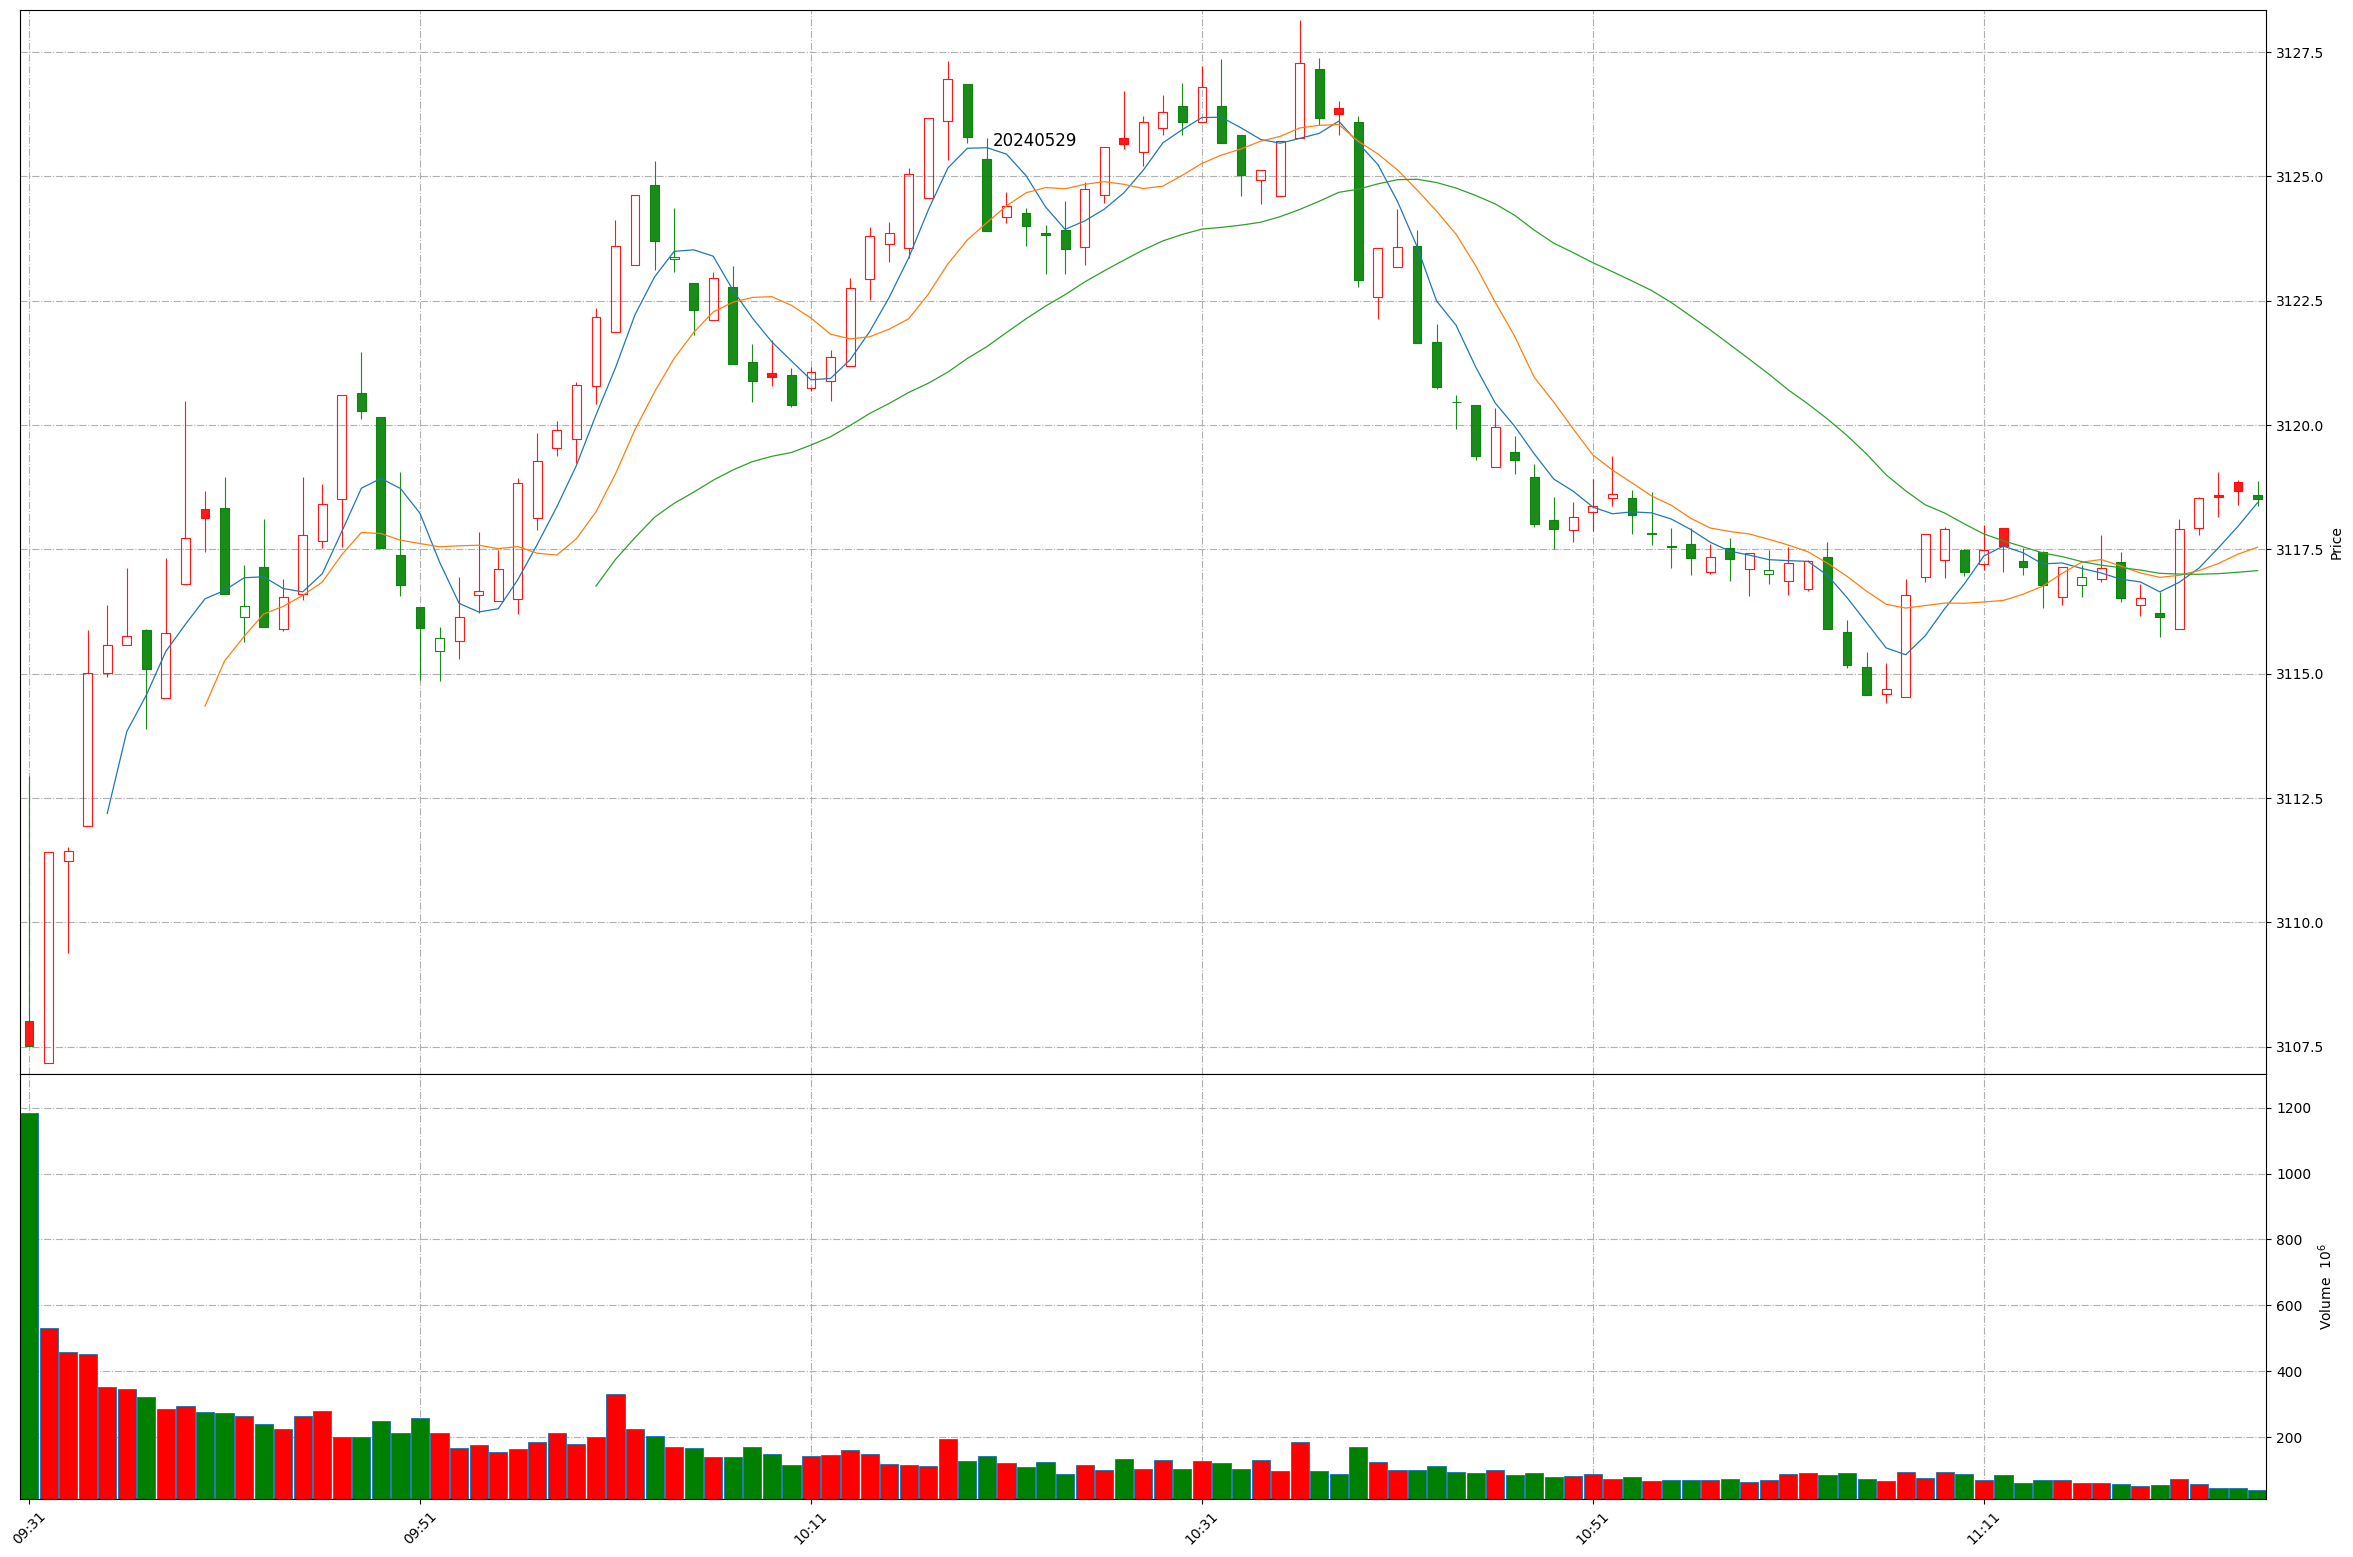
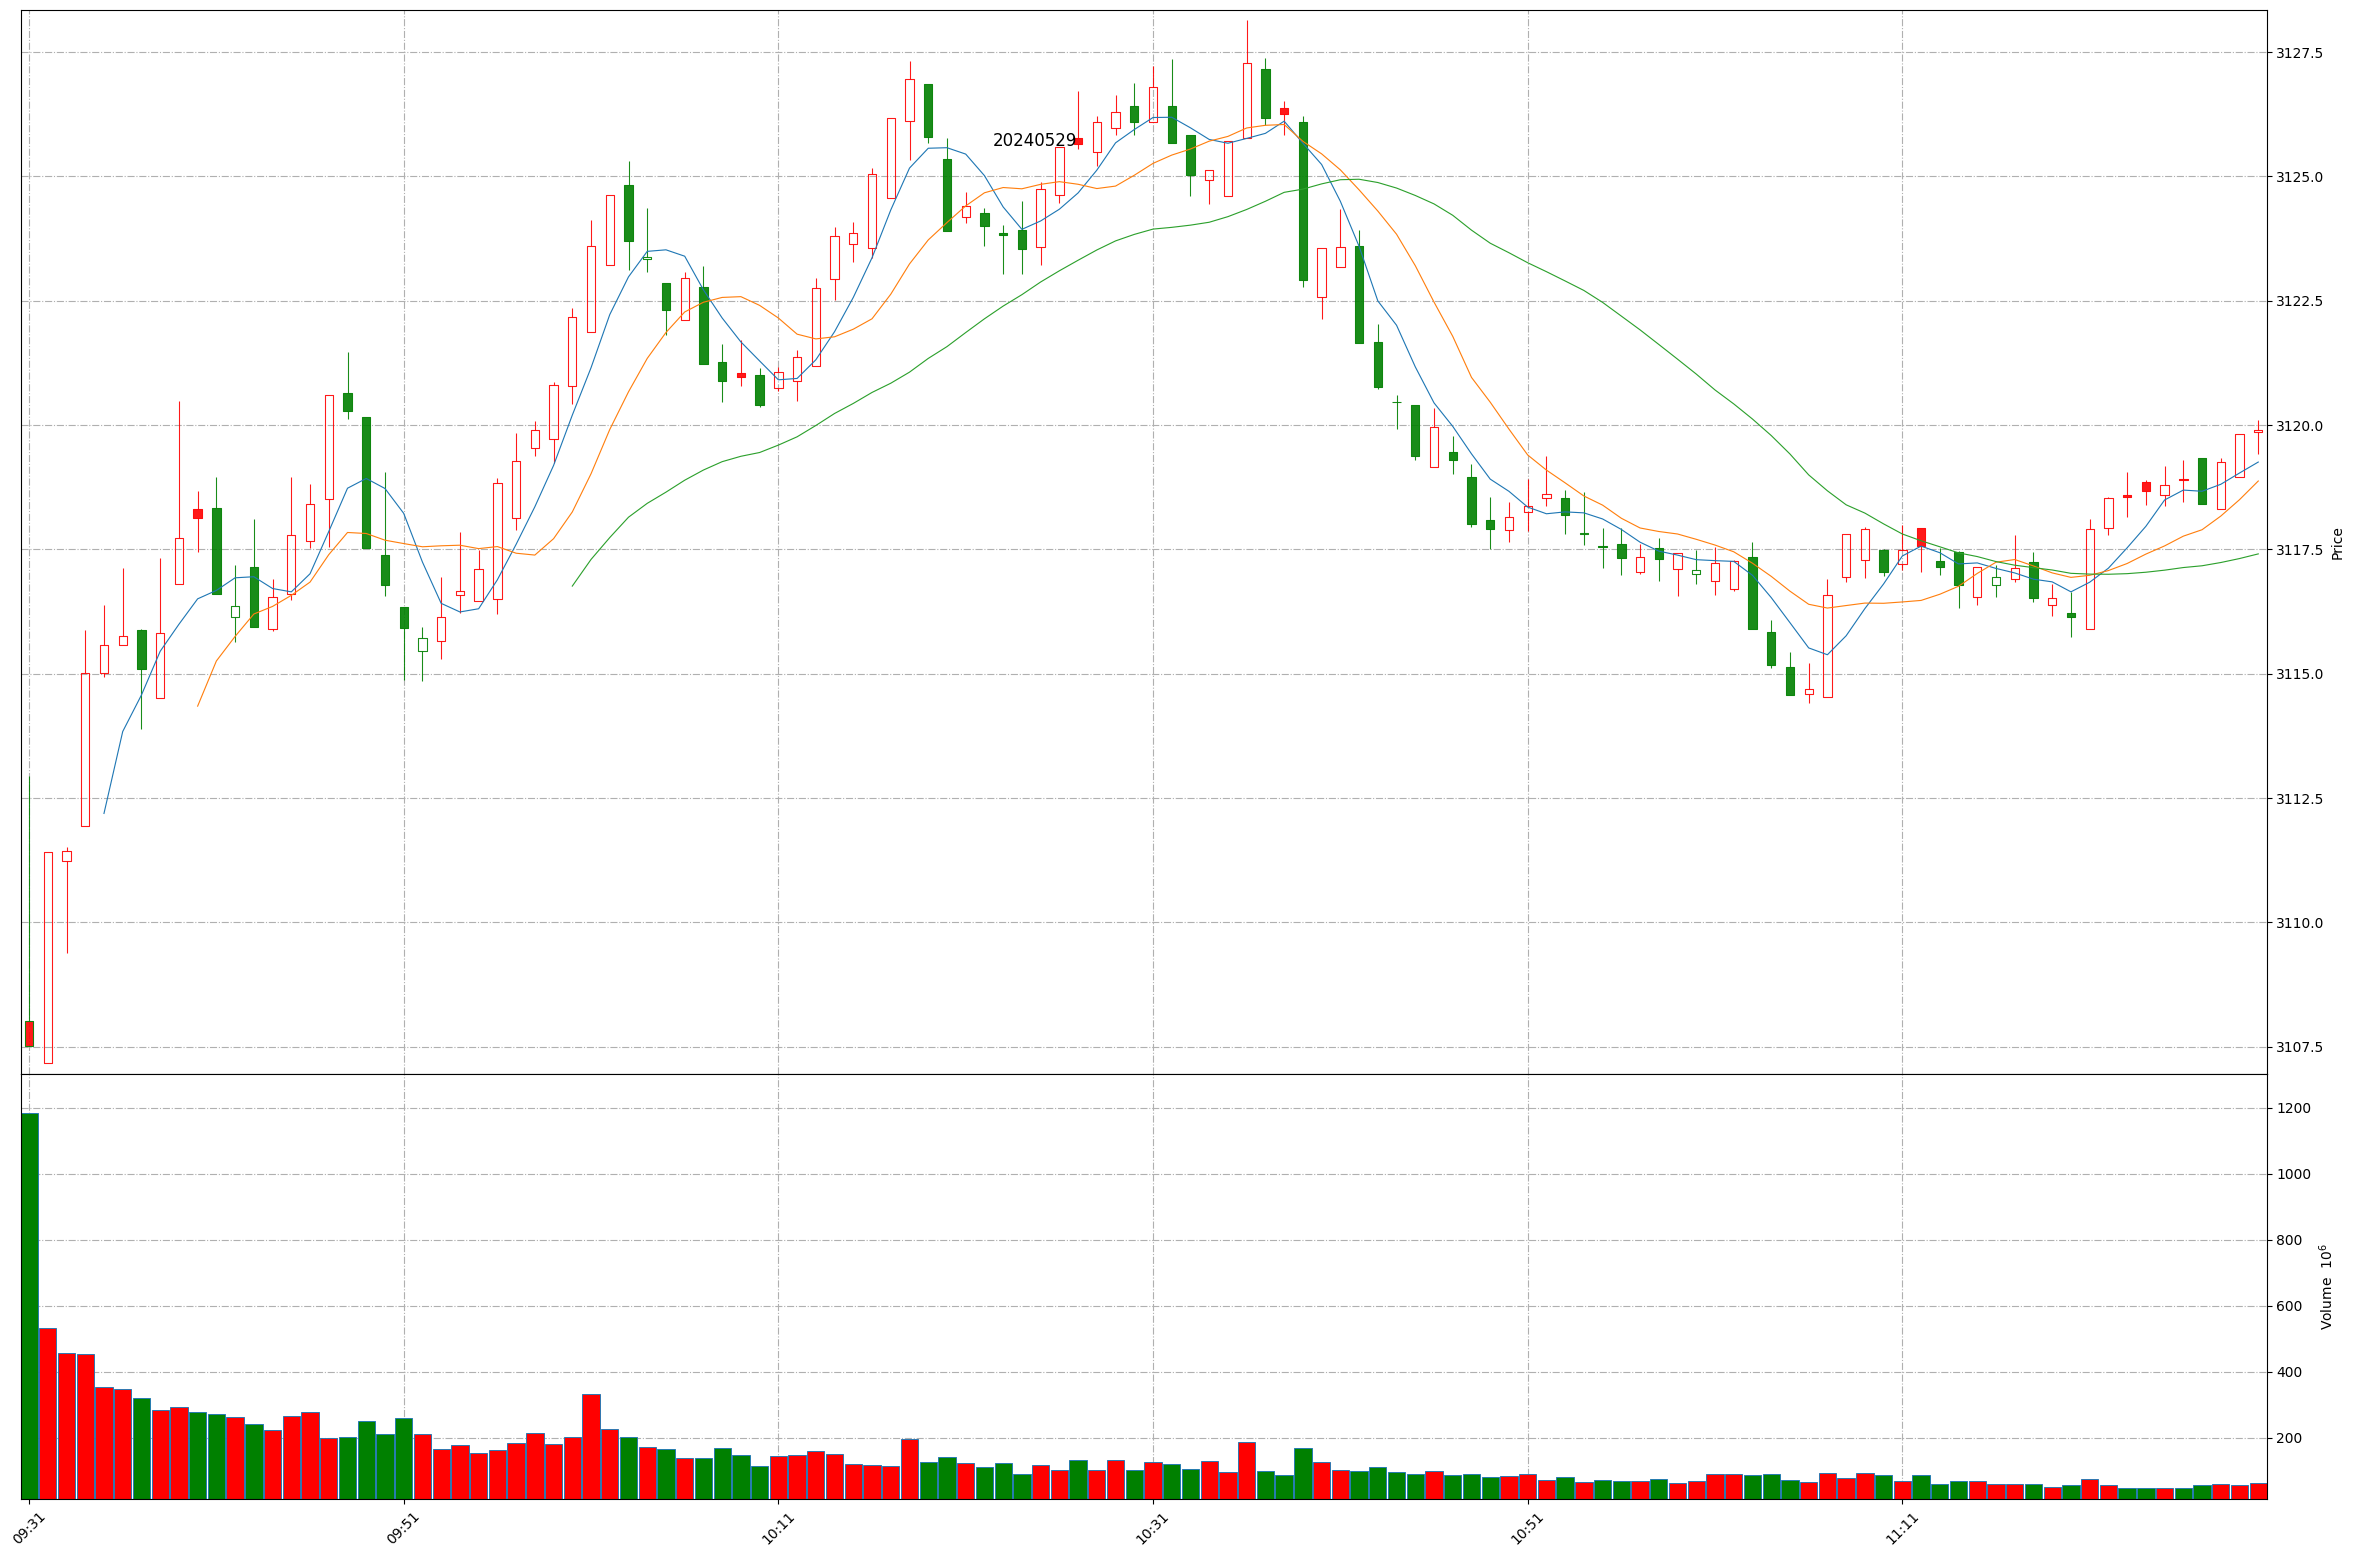
Github action update at 2024-05-29 11:31:16.

Changed region(s): [[0.031, 0.0308, 0.9618, 0.5241], [0.0, 0.8632, 0.9618, 0.9865]]

diff --git a/README.md b/README.md
@@ -1,11 +1,11 @@
 
 # Daily-A-share-market-quotes 每日 A 股指数（5min 更新）- 20240529
 
-### 上证指数 20240529 11:25
+### 上证指数 20240529 11:31
 ![](./fig/2024/5/20240529-sh000001.png)
 
-### 深证成指 20240529 11:25
+### 深证成指 20240529 11:31
 ![](./fig/2024/5/20240529-sz399001.png)
 
-### 北证50 20240529 11:25
+### 北证50 20240529 11:31
 ![](./fig/2024/5/20240529-bj899050.png)
